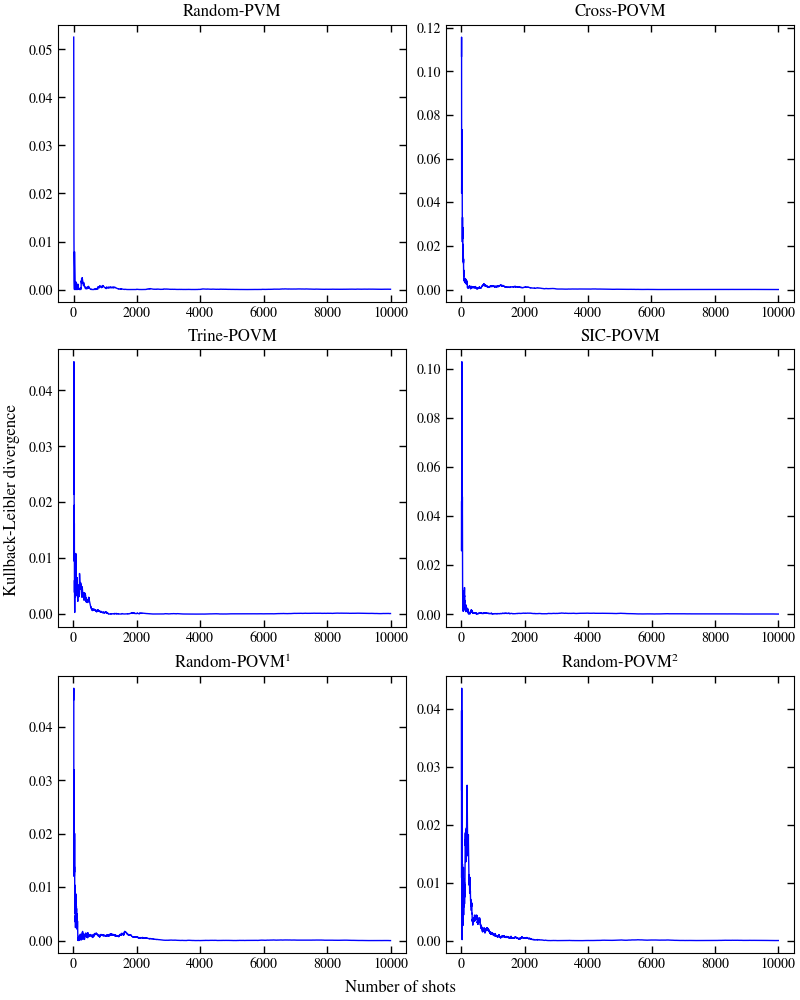
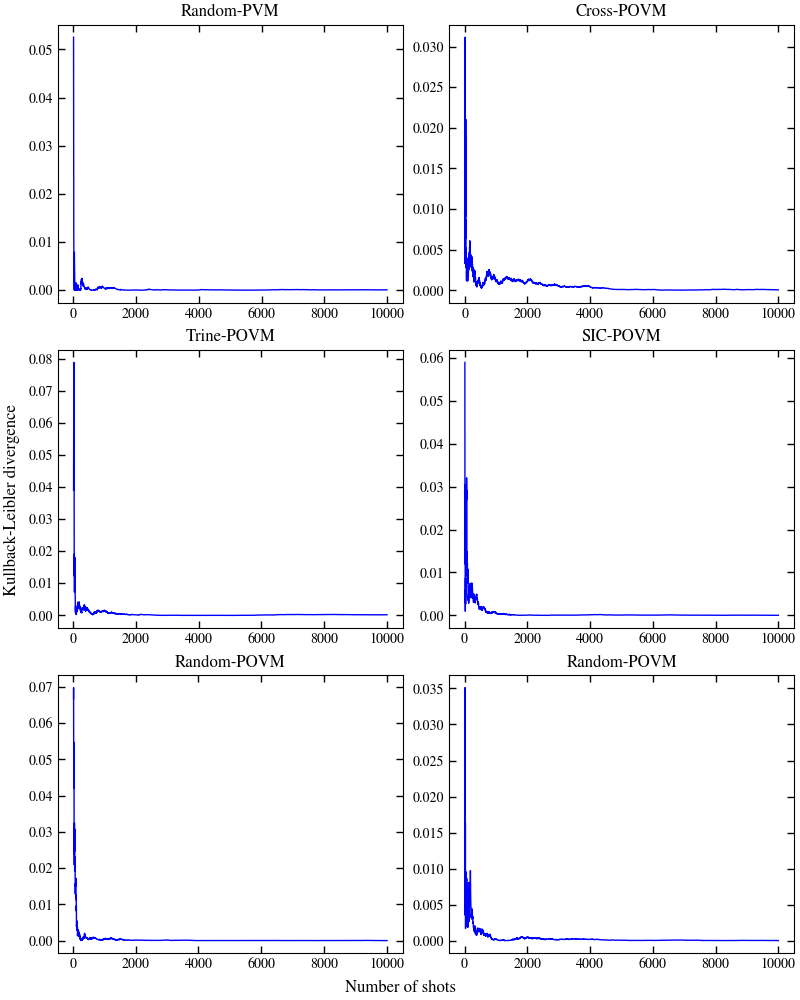
LATeX: Results plots updated

diff --git a/src/main.py b/src/main.py
@@ -511,7 +511,7 @@ def pm_kl_classical_quantum_simulator():
 
 
 def pm_kl_classical_quantum_simulator_born(shots):
-    np.random.seed(1000)
+    np.random.seed(1976)
     mpl.rcParams['mathtext.fontset'] = 'stix'
     mpl.rcParams['font.family'] = 'STIXGeneral'
 
@@ -586,7 +586,7 @@ def pm_kl_multiplot(shots):
     mpl.rcParams['mathtext.fontset'] = 'stix'
     mpl.rcParams['font.family'] = 'STIXGeneral'
 
-    cases = ['Random-PVM', 'Cross-POVM', 'Trine-POVM', 'SIC-POVM', r"Random-POVM$^{1}$", r"Random-POVM$^{2}$"]
+    cases = ['Random-PVM', 'Cross-POVM', 'Trine-POVM', 'SIC-POVM', r"Random-POVM", r"Random-POVM"]
 
     fig, axs = plt.subplots(3, 2, figsize=(8, 10), layout='constrained')
 
@@ -897,15 +897,14 @@ def bell():
 
 
 if __name__ == "__main__":
-    shots = 10 ** 7
     # random_states()
     # random_povm()
-    pm_pvm(shots)
-    pm_random(shots)
+    pm_pvm(10 ** 7)
+    #pm_random(shots)
     # pm_random_3d()
-    pm_trine(shots)
-    pm_cross(shots)
-    pm_sic(shots)
+    #pm_trine(shots)
+    #pm_cross(shots)
+    #pm_sic(shots)
     # neumark()
     # pm_circuit()
     # quantum_simulator()
@@ -913,7 +912,7 @@ if __name__ == "__main__":
     # kl_sample()
     # pm_kl_classical_born()
     # pm_kl_classical_quantum_simulator()
-    pm_kl_classical_quantum_simulator_born(shots)
+    # pm_kl_classical_quantum_simulator_born(10**4)
     # pm_kl_multiplot(10**4)
     # chsh_sample()
     # bell_sample_probabilities()
